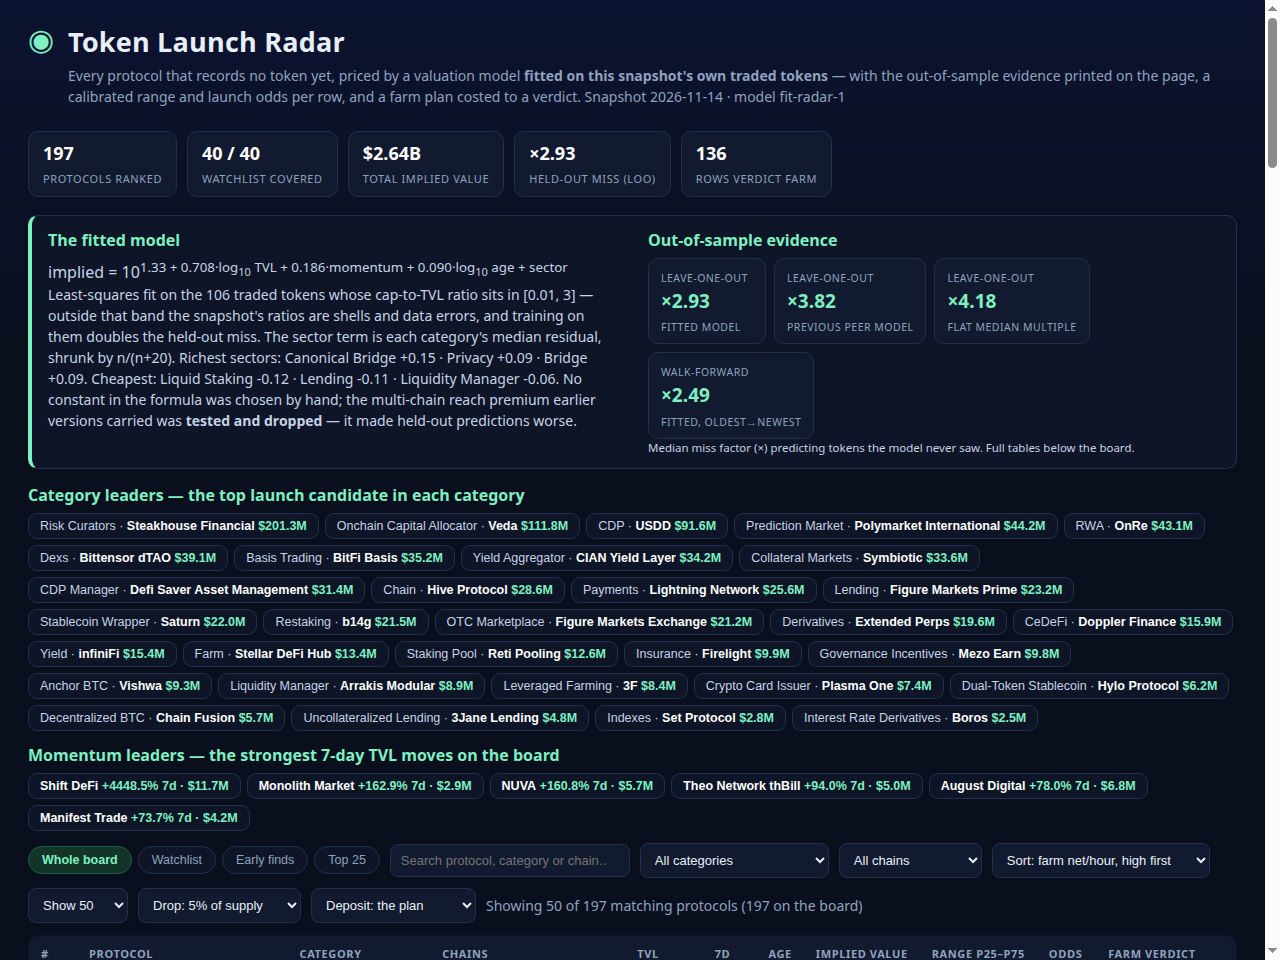
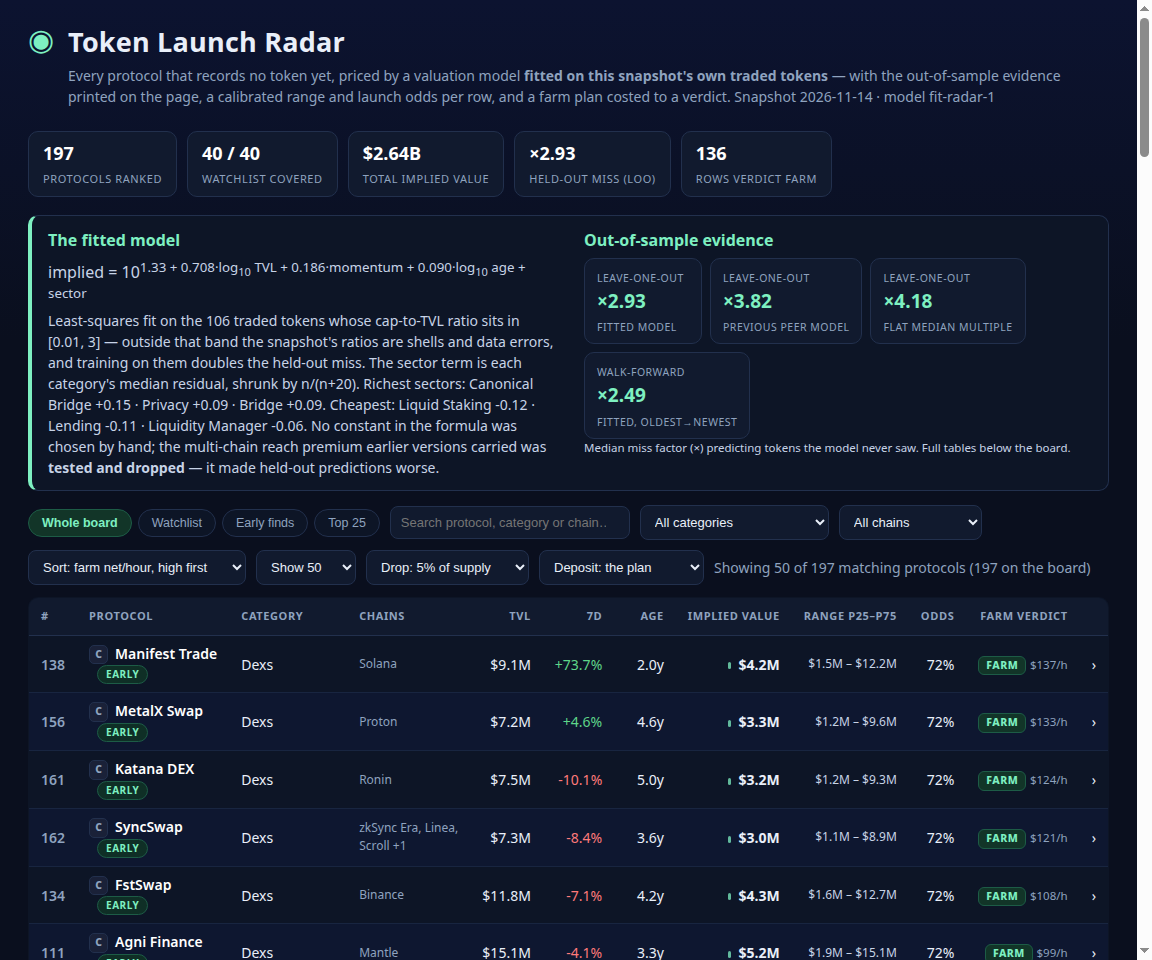
v6.1: screenshot framing fixes from the second Hermes review
- Board and verdict screenshots use a board print view (#view=board):
  the leader strips step aside so the ranked rows fill the frame
  (they previously showed zero rows).
- Detail screenshot taller; step 1 now names the plan's total capital,
  so the costing box's deposit reconciles inside the first step.
- Momentum leaders exclude >+500% 7d spikes (re-listing artifacts) and
  say so; scatter gains axis titles and y ticks; board hint points to
  the net-on-deposit figure beside each verdict.
- Screenshots re-rendered at 1152px wide to keep the dossier at
  1.50 MB of the 1.5 MiB cap with all four views.

diff --git a/dashboard/app.js b/dashboard/app.js
@@ -102,7 +102,7 @@ $('leaders').innerHTML = [...leaderByCat.values()]
   .map((r) => '<button class="lchip" data-slug="' + esc(r.slug) + '">' + esc(r.category || '—') + ' · <b>' + esc(r.name) + '</b> <span>' + fmtUsd(r.implied_value_usd) + '</span></button>')
   .join('');
 $('momleaders').innerHTML = rows
-  .filter((r) => r.change_7d !== null)
+  .filter((r) => r.change_7d !== null && (r.change_7d ?? 0) <= 500)
   .sort((a, b) => (b.change_7d ?? 0) - (a.change_7d ?? 0))
   .slice(0, 6)
   .map((r) => '<button class="lchip" data-slug="' + esc(r.slug) + '"><b>' + esc(r.name) + '</b> <span>+' + (r.change_7d ?? 0).toFixed(1) + '% 7d · ' + fmtUsd(r.implied_value_usd) + '</span></button>')
@@ -268,7 +268,10 @@ $('smalln').textContent = F.train_n;
       s += '<line x1="' + X(g) + '" y1="0" x2="' + X(g) + '" y2="' + H + '" style="stroke:var(--border)" stroke-width="0.5"/>';
       s += '<line x1="0" y1="' + Y(g) + '" x2="' + W + '" y2="' + Y(g) + '" style="stroke:var(--border)" stroke-width="0.5"/>';
       s += '<text x="' + (X(g) + 3) + '" y="' + (H - 4) + '" style="fill:var(--muted)" font-size="9">' + (g === 6 ? '$1M' : g === 8 ? '$100M' : '$10B') + '</text>';
+      s += '<text x="3" y="' + (Y(g) - 3) + '" style="fill:var(--muted)" font-size="9">' + (g === 6 ? '$1M' : g === 8 ? '$100M' : '$10B') + '</text>';
     }
+    s += '<text x="' + (W - 78) + '" y="12" style="fill:var(--muted)" font-size="9">actual &#8594;</text>';
+    s += '<text x="3" y="12" style="fill:var(--muted)" font-size="9">&#8593; predicted</text>';
     for (const p of pts) s += '<circle cx="' + X(p.log_actual).toFixed(1) + '" cy="' + Y(p.log_pred).toFixed(1) + '" r="2.4" style="fill:var(--accent)" opacity="0.72"/>';
     s += '</svg>';
     $('scatter').innerHTML = s;
@@ -377,6 +380,11 @@ function applyHash() {
     // A print view for the evidence screenshot: everything above the
     // evidence section steps aside so the tables render at the top.
     document.body.classList.add('evidence-only');
+  }
+  if (h.get('view') === 'board') {
+    // A print view for the board screenshots: the leader strips step
+    // aside so the ranked rows themselves fill the frame.
+    document.body.classList.add('board-only');
   }
 }
 window.addEventListener('hashchange', applyHash);

diff --git a/dashboard/index.html b/dashboard/index.html
@@ -39,7 +39,7 @@
 </section>
 
 <section class="leaders" id="momsec">
-  <h2>Momentum leaders — the strongest 7-day TVL moves on the board</h2>
+  <h2>Momentum leaders — the strongest 7-day TVL moves on the board (spikes over +500% excluded: near-certain re-listing artifacts, and the fit clamps momentum at +40 anyway)</h2>
   <div id="momleaders" class="leaderchips"></div>
 </section>
 
@@ -95,7 +95,7 @@
     </tr></thead>
     <tbody id="rows"></tbody>
   </table>
-  <p class="hint">Verdicts price the farm at the drop and deposit set above: expected slice of the drop (split equally among qualifying wallets — one per $25k of TVL, 200 min, 50k max — weighted by the row's launch odds), minus the plan's fees, per hour of work. FARM ≥ $25/h · MARGINAL ≥ $8/h · THIN ≥ $0/h · SKIP below. Ranges are calibrated on held-out residuals, not decoration: the evidence section shows their coverage.</p>
+  <p class="hint">Verdicts price the farm at the drop and deposit set above: expected slice of the drop (split equally among qualifying wallets — one per $25k of TVL, 200 min, 50k max — weighted by the row's launch odds), minus the plan's fees, per hour of work. FARM ≥ $25/h · MARGINAL ≥ $8/h · THIN ≥ $0/h · SKIP below. Ranges are calibrated on held-out residuals, not decoration: the evidence section shows their coverage. Verdicts are priced per hour of work; open any plan to see its net-on-deposit beside the verdict before judging the label.</p>
 </main>
 
 <section class="evidence" id="evidence">

diff --git a/lib/farm.ts b/lib/farm.ts
@@ -299,7 +299,7 @@ export function farmPlan(p: SnapshotProtocol, age: number | null, ctx?: PlanCont
     : ` It runs on ${fmtMoney(p.tvl_usd)} of TVL`;
   const steps: FarmStep[] = [
     {
-      text: `Set up a fresh wallet for ${p.name} on ${chain}, fund it with $${capital} plus gas, and keep its seed phrase offline.${place}`,
+      text: `Set up a fresh wallet for ${p.name} on ${chain}, fund it with $${capital} plus gas — the first part of this plan's $${planCapitalFor(p)} total capital, the deposit the costing box prices — and keep its seed phrase offline.${place}`,
       cost: `${gas} to fund`,
       time: '10 minutes',
     },

diff --git a/dashboard/app.css b/dashboard/app.css
@@ -123,4 +123,5 @@ footer{padding:10px 28px 26px;color:var(--muted);font-size:12px}
 .costgrid .stat{min-width:0;padding:6px 11px}
 .costgrid .stat b{font-size:15px}
 body.evidence-only .top,body.evidence-only .method,body.evidence-only .leaders,body.evidence-only .controls,body.evidence-only main,body.evidence-only .live,body.evidence-only footer{display:none}
+body.board-only .leaders{display:none}
 .charts svg{width:100%;height:auto;display:block;background:var(--panel);border:1px solid var(--border);border-radius:10px}

diff --git a/README.md b/README.md
@@ -53,10 +53,13 @@ hand-set multiples, no list of names:
   beside the per-hour verdict and a "what moves this price" readout from
   the fitted coefficients; a momentum-leaders strip surfaces the strongest
   7-day TVL moves the momentum term is pricing.
-- **Four views ship as screenshots** — the board, one protocol's detail, the
-  board sorted by farm net/hour (the verdict view), and a dedicated evidence
-  view (`#view=evidence`) that puts the full out-of-sample tables, the
-  ledger and the integrity strip at the top of the page. The model itself is
+- **Four views ship as screenshots** — the board and the farm-net/hour
+  verdict view (both via `#view=board`, a print view that steps the leader
+  strips aside so the ranked rows fill the frame), one protocol's detail
+  tall enough to read the plan's steps and its total-capital bridge, and a
+  dedicated evidence view (`#view=evidence`) that puts the full
+  out-of-sample tables, the charts, the ledger and the integrity strip at
+  the top of the page. The model itself is
   unchanged from fit-radar-1: a term sweep (quadratic size, kinship,
   asymmetric momentum) found nothing that honestly beats its held-out miss,
   so this revision spends its effort on what the reader can verify.
